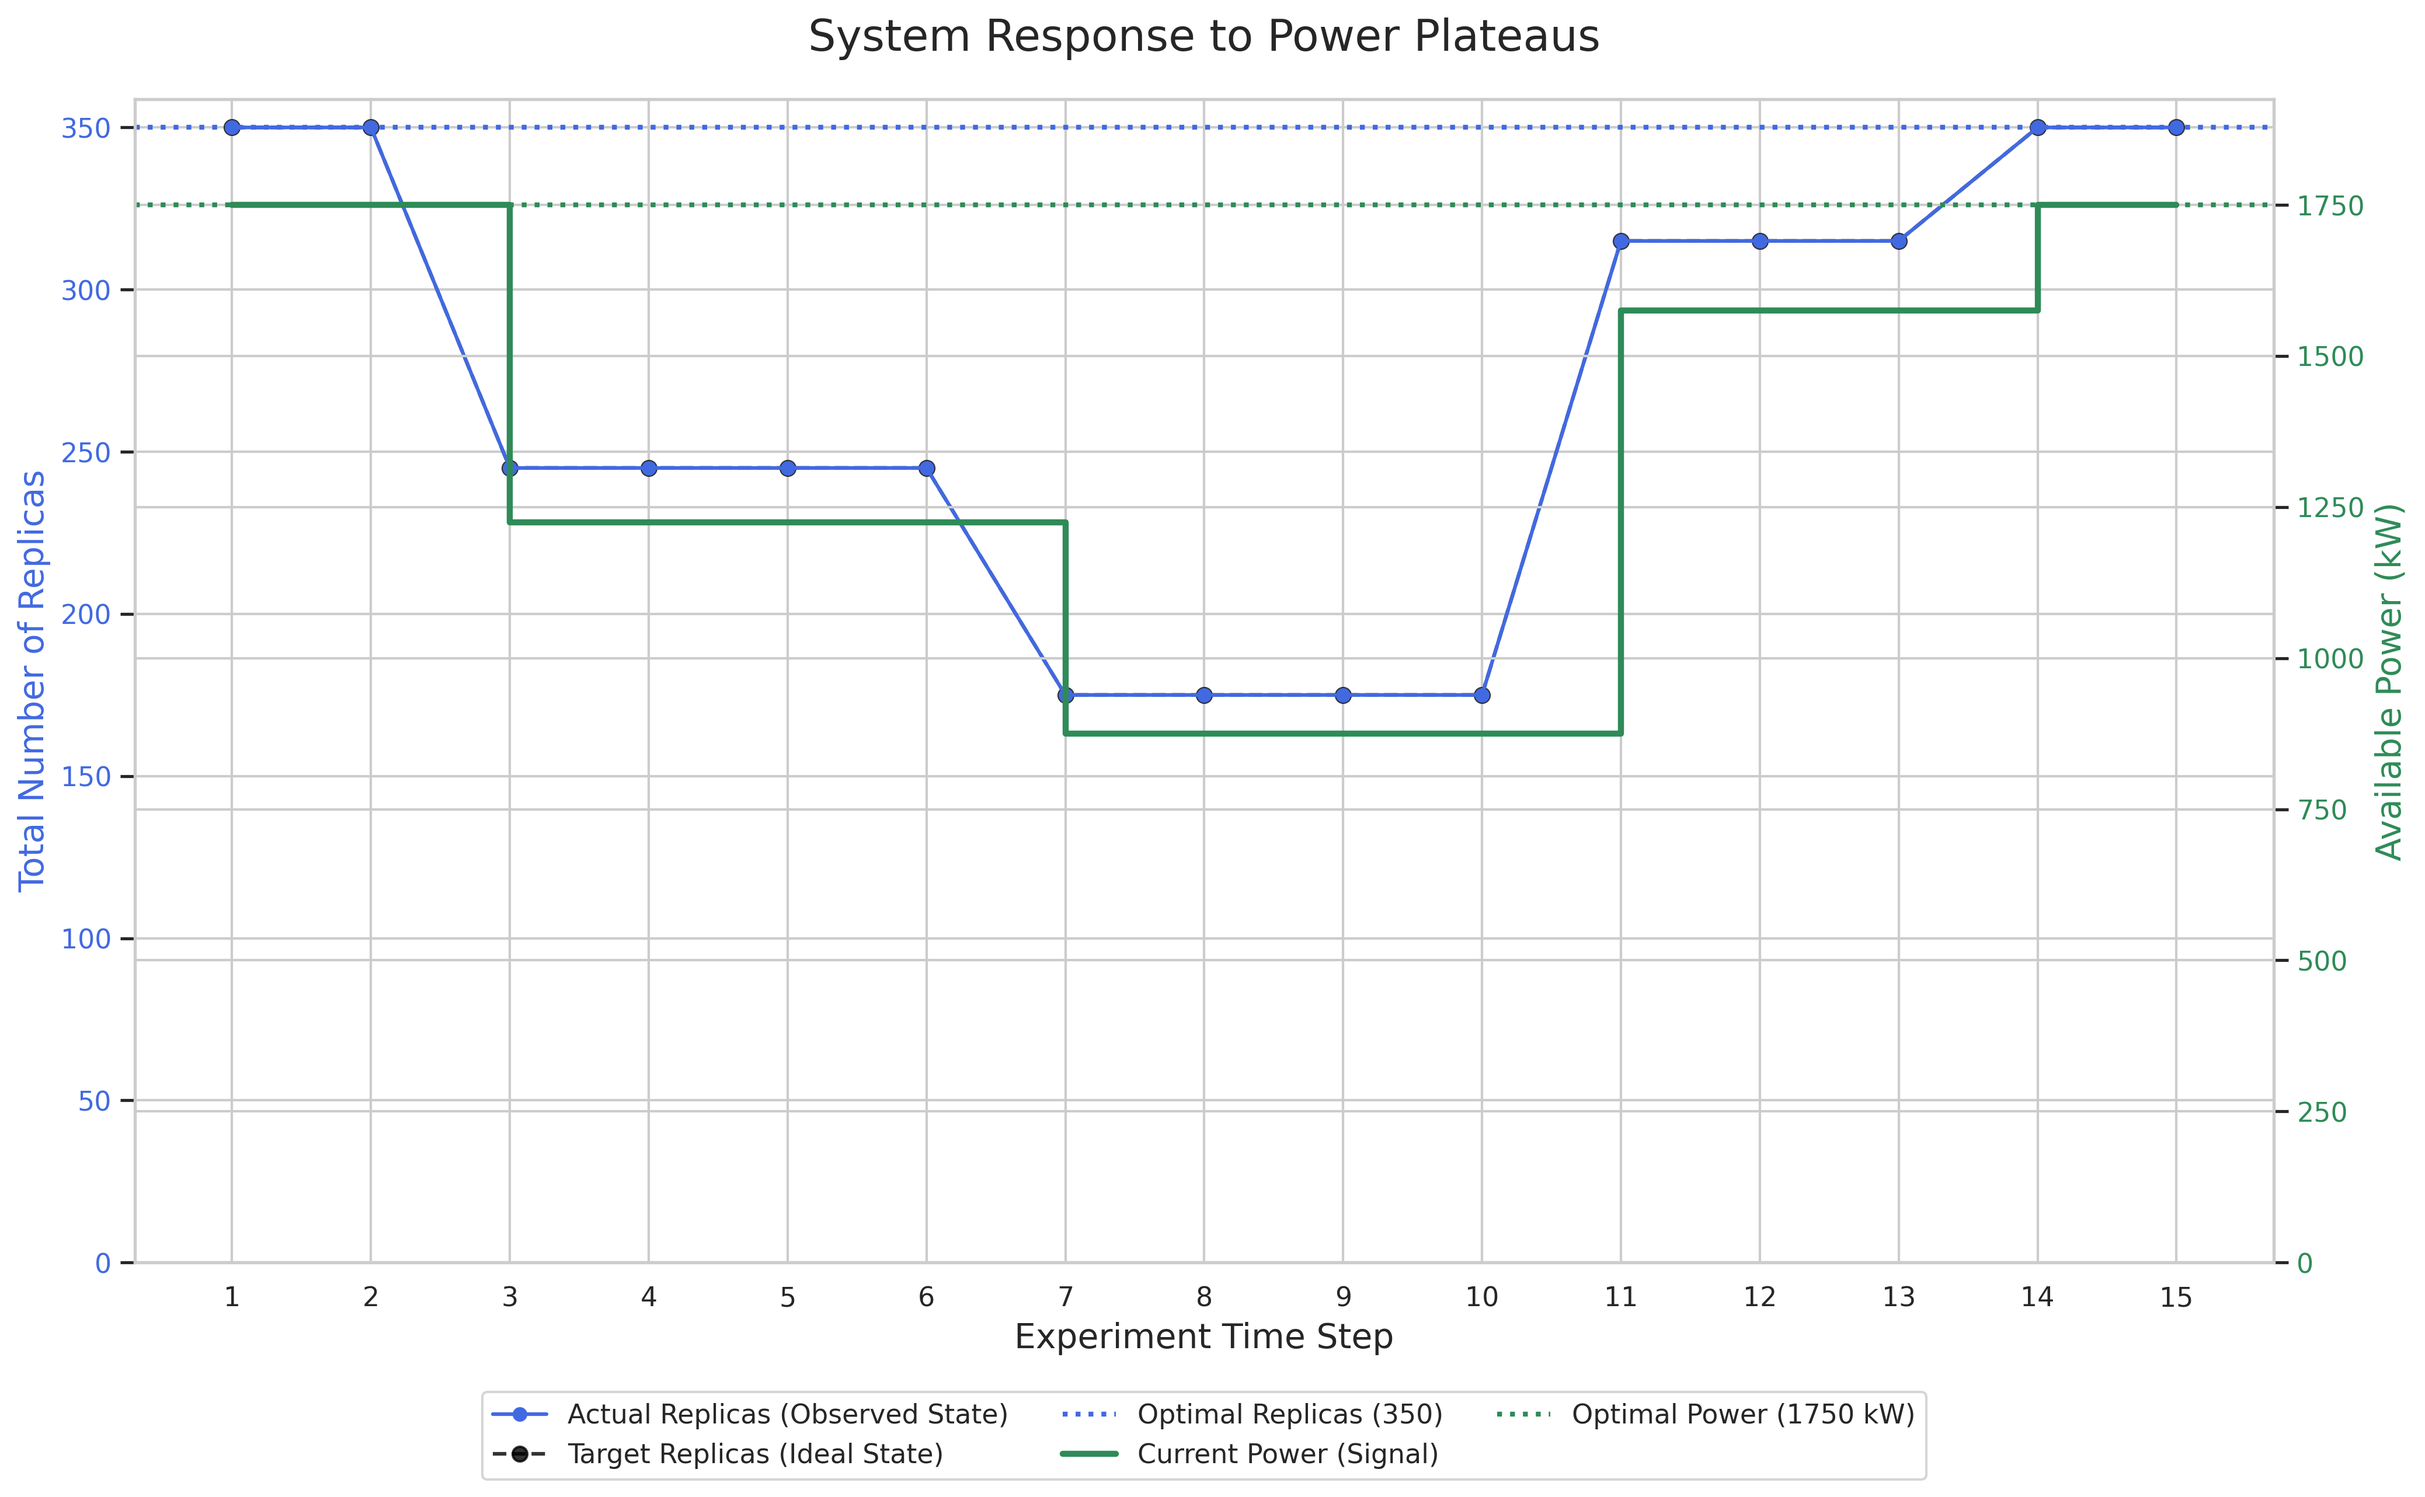
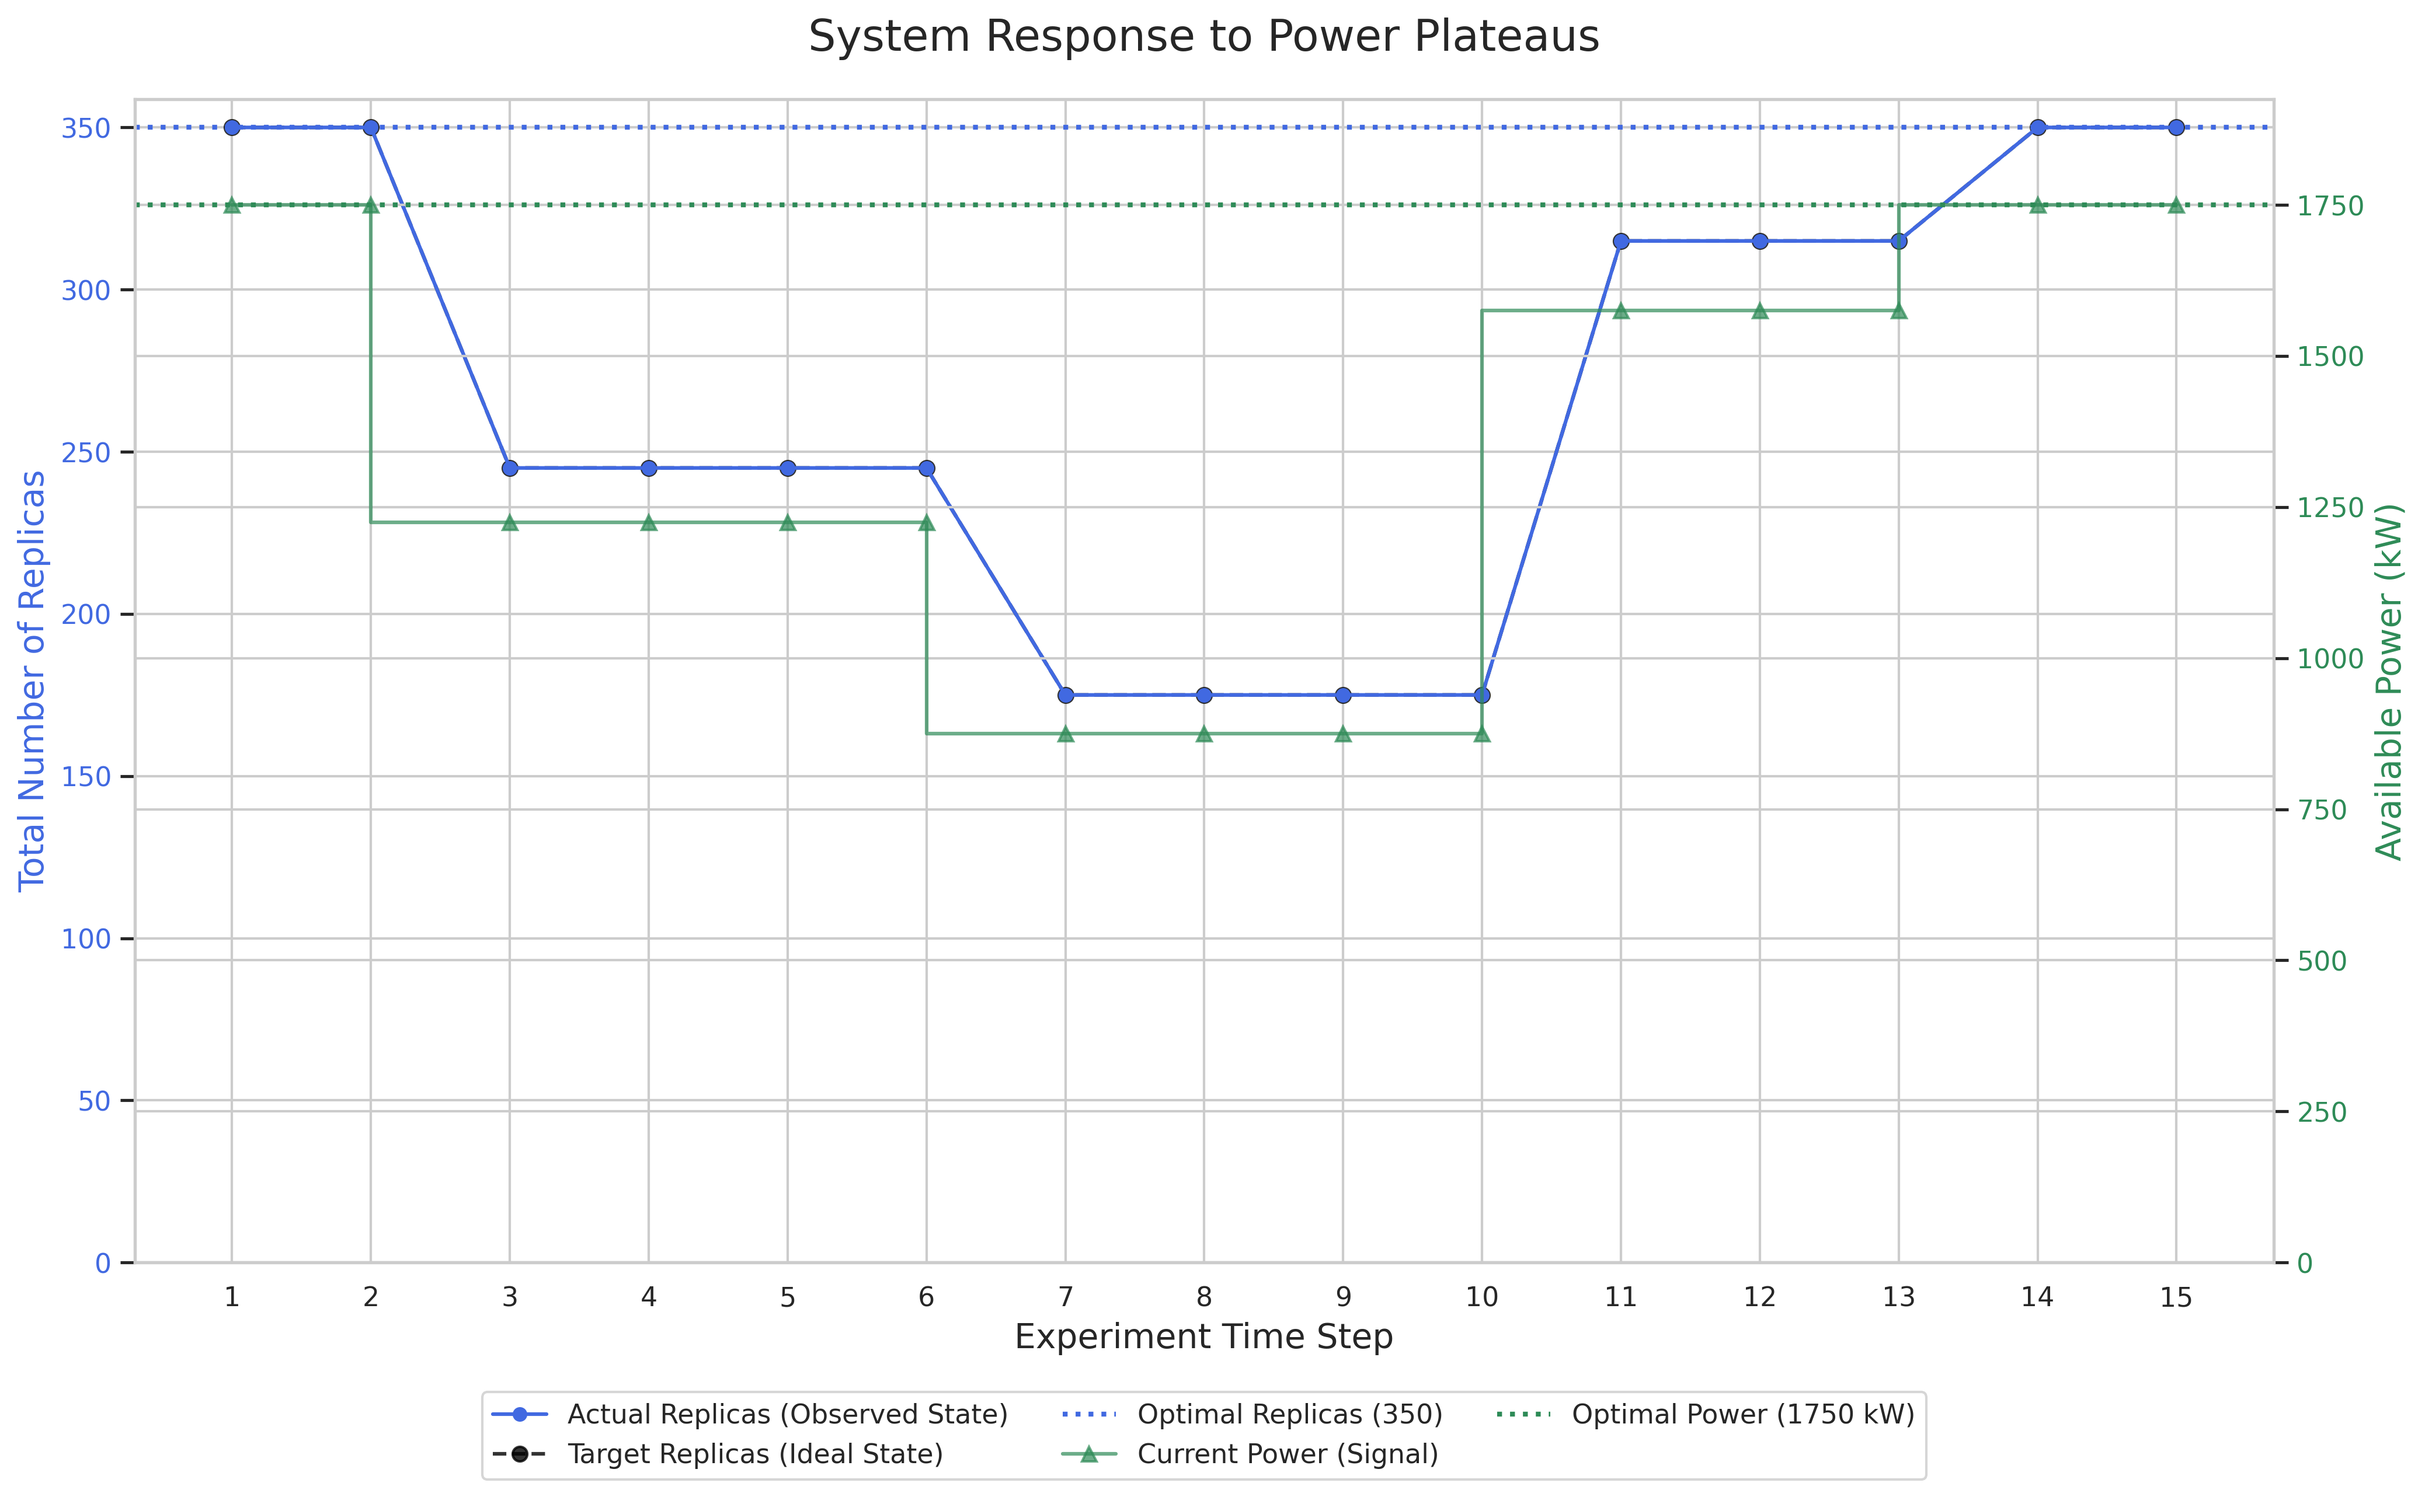
feat: Add full-cycle ramp test and associated data collection for ElaraPolicy controller

diff --git a/controllers/elarapolicy_full_ramp_test.go b/controllers/elarapolicy_full_ramp_test.go
@@ -1,0 +1,153 @@
+package controllers
+
+import (
+	"context"
+	"fmt"
+	"strconv"
+	"time"
+
+	. "github.com/onsi/ginkgo/v2"
+	. "github.com/onsi/gomega"
+	appsv1 "k8s.io/api/apps/v1"
+	corev1 "k8s.io/api/core/v1"
+	metav1 "k8s.io/apimachinery/pkg/apis/meta/v1"
+	"sigs.k8s.io/controller-runtime/pkg/client"
+
+	greenopsv1 "elara/api/v1" // IMPORTANT: Use your module name
+)
+
+// *** CONSTANTS MOVED HERE to be accessible by all functions in this file ***
+const (
+	StepDelay        = 4 * time.Second   // Time to wait between power changes
+	fullRampTimeout  = 180 * time.Second // This is a long test, so a generous timeout
+	fullRampInterval = 250 * time.Millisecond
+)
+
+var _ = Describe("ElaraPolicy Controller: Full-Cycle Ramp Test", func() {
+
+	// Constants specific to this test suite
+	const (
+		FullRampNamespace = "default"
+		FullRampPolicyName    = "full-ramp-policy"
+		NumRampSteps      = 10 // Number of steps for ramp down and up
+	)
+
+	ctx := context.Background()
+
+	// The robust AfterEach block ensures tests do not hang.
+	AfterEach(func() {
+		By("Cleaning up full-cycle ramp test resources")
+		policy := &greenopsv1.ElaraPolicy{ObjectMeta: metav1.ObjectMeta{Name: FullRampPolicyName}}
+		Expect(client.IgnoreNotFound(k8sClient.Delete(ctx, policy))).Should(Succeed())
+
+		nodeList := &corev1.NodeList{}
+		_ = k8sClient.List(ctx, nodeList, client.MatchingLabels{"elara-test": "full-ramp"})
+		for _, node := range nodeList.Items {
+			_ = k8sClient.Delete(ctx, &node)
+		}
+		
+		Expect(k8sClient.DeleteAllOf(ctx, &appsv1.Deployment{}, client.InNamespace(FullRampNamespace), client.MatchingLabels{"elara-test": "full-ramp"})).Should(Succeed())
+		Eventually(func() int {
+			list := &appsv1.DeploymentList{}
+			_ = k8sClient.List(ctx, list, client.InNamespace(FullRampNamespace), client.MatchingLabels{"elara-test": "full-ramp"})
+			return len(list.Items)
+		}, fullRampTimeout, fullRampInterval).Should(BeZero())
+	})
+
+	It("should track a full ramp-down and ramp-up power cycle", func() {
+		// --- SETUP ---
+		By("Creating a complex, heterogeneous cluster topology")
+		managedDeployments := generateComplexTopology(FullRampNamespace, 30)
+		for _, md := range managedDeployments {
+			dep := createMockDeployment(md.Namespace, md.Name, md.MaxReplicas)
+			dep.Labels = map[string]string{"elara-test": "full-ramp"}
+			Expect(k8sClient.Create(ctx, dep)).Should(Succeed())
+		}
+		
+		nodes := []*corev1.Node{
+			{ObjectMeta: metav1.ObjectMeta{Name: "ramp-node-1", Labels: map[string]string{"elara-test": "full-ramp", optimalPowerLabel: "1000", currentPowerLabel: "1000"}}},
+			{ObjectMeta: metav1.ObjectMeta{Name: "ramp-node-2", Labels: map[string]string{"elara-test": "full-ramp", optimalPowerLabel: "500", currentPowerLabel: "500"}}},
+			{ObjectMeta: metav1.ObjectMeta{Name: "ramp-node-3", Labels: map[string]string{"elara-test": "full-ramp", optimalPowerLabel: "250", currentPowerLabel: "250"}}},
+		}
+		var optimalPower float64
+		for _, node := range nodes {
+			Expect(k8sClient.Create(ctx, node)).Should(Succeed())
+			opt, _ := strconv.ParseFloat(node.Labels[optimalPowerLabel], 64)
+			optimalPower += opt
+		}
+		
+		policy := &greenopsv1.ElaraPolicy{
+			ObjectMeta: metav1.ObjectMeta{Name: FullRampPolicyName},
+			Spec:       greenopsv1.ElaraPolicySpec{Deployments: managedDeployments},
+		}
+		Expect(k8sClient.Create(ctx, policy)).Should(Succeed())
+
+		By("Ensuring initial state is stable at max replicas")
+		expectedInitialReplicas := make(map[string]int32)
+		for _, md := range managedDeployments { expectedInitialReplicas[md.Name] = md.MaxReplicas }
+		assertAllDeploymentsConverged(ctx, FullRampNamespace, expectedInitialReplicas)
+
+		// --- POWER CYCLE & DATA COLLECTION ---
+		By("Executing a full ramp-down and ramp-up power cycle")
+		var collectedData []RampDataPoint
+		scaler := &DeclarativeScaler{Deployments: managedDeployments}
+		minPowerFactor := 0.4
+
+		// PHASE 1: RAMP DOWN
+		for i := 0; i <= NumRampSteps; i++ {
+			powerFactor := 1.0 - ((1.0 - minPowerFactor) * (float64(i) / float64(NumRampSteps)))
+			updatePowerAndCollectData(ctx, powerFactor, optimalPower, &collectedData, scaler, FullRampNamespace)
+		}
+
+		// PHASE 2: RAMP UP
+		for i := 1; i <= NumRampSteps; i++ {
+			powerFactor := minPowerFactor + ((1.0 - minPowerFactor) * (float64(i) / float64(NumRampSteps)))
+			updatePowerAndCollectData(ctx, powerFactor, optimalPower, &collectedData, scaler, FullRampNamespace)
+		}
+
+		// --- FINAL VALIDATION & REPORTING ---
+		By("Asserting final state has returned to max replicas")
+		assertAllDeploymentsConverged(ctx, FullRampNamespace, expectedInitialReplicas)
+
+		By("Reporting and saving collected metrics for the full cycle")
+		header := []string{"Step", "OptimalPower", "CurrentPower", "TargetReplicas", "ActualReplicas", "ReplicationError"}
+		records := [][]string{}
+		for i, data := range collectedData {
+			record := []string{strconv.Itoa(i + 1), fmt.Sprintf("%.2f", data.OptimalPower), fmt.Sprintf("%.2f", data.CurrentPower), strconv.Itoa(int(data.TargetReplicas)), strconv.Itoa(int(data.ActualReplicas)), strconv.Itoa(int(data.Error))}
+			records = append(records, record)
+		}
+		Expect(saveDataToCSV("full_ramp_data.csv", append([][]string{header}, records...))).To(Succeed())
+		
+		// Print a summary to the console.
+		var totalError int64
+		for _, data := range collectedData { totalError += int64(data.Error) }
+		avgError := float64(totalError) / float64(len(collectedData))
+		fmt.Printf("\n--- METRICS: FULL RAMP TEST SUMMARY ---\n")
+		fmt.Printf("Average Replication Error: %.2f\n", avgError)
+		fmt.Printf("--------------------------------------\n")
+		Expect(avgError).To(BeNumerically("<", 10))
+	})
+})
+
+// updatePowerAndCollectData is a helper function to avoid code duplication for ramp steps.
+func updatePowerAndCollectData(ctx context.Context, powerFactor, optimalPower float64, data *[]RampDataPoint, scaler *DeclarativeScaler, namespace string) {
+	currentPower := optimalPower * powerFactor
+	
+	By(fmt.Sprintf("Setting power to %.2f (%.0f%%)", currentPower, powerFactor*100))
+	
+	nodeList := &corev1.NodeList{}
+	Expect(k8sClient.List(ctx, nodeList, client.MatchingLabels{"elara-test": "full-ramp"})).Should(Succeed())
+	for _, node := range nodeList.Items {
+		// This creates a copy of the node object to modify
+		nodeToUpdate := node
+		opt, _ := strconv.ParseFloat(nodeToUpdate.Labels[optimalPowerLabel], 64)
+		nodeToUpdate.Labels[currentPowerLabel] = fmt.Sprintf("%.2f", opt*powerFactor)
+		Expect(k8sClient.Update(ctx, &nodeToUpdate)).Should(Succeed())
+	}
+	
+	// This uses the package-level constant, which is now visible.
+	time.Sleep(StepDelay)
+	
+	dataPoint := collectDataPoint(ctx, scaler, namespace, currentPower, optimalPower)
+	*data = append(*data, dataPoint)
+}

diff --git a/analysis/plot_results.py b/analysis/plot_results.py
@@ -141,7 +141,7 @@ def plot_plateau_response(filename):
     color_power = 'seagreen'
     ax2.set_ylabel('Available Power (kW)', color=color_power, fontsize=14)
     # Use plt.step for a plateau visualization
-    ax2.step(df['Step'], df['CurrentPower'], where='post', color=color_power, linewidth=2.5, label='Current Power (Signal)')
+    ax2.step(df['Step'], df['CurrentPower'], '^-', color=color_power, alpha=0.7, label='Current Power (Signal)')
     ax2.tick_params(axis='y', labelcolor=color_power)
     ax2.axhline(optimal_power, color=color_power, linestyle=':', linewidth=2, label=f'Optimal Power ({int(optimal_power)} kW)')
     ax2.set_ylim(bottom=0, top=optimal_power * 1.1)
@@ -182,8 +182,11 @@ def main():
         if "ramp_error_data.csv" in filename:
             found_files = True
             plot_replication_error_with_power(full_path)
-        if "plateau_error_data.csv" in filename:
+        elif "plateau_error_data.csv" in filename:
             plot_plateau_response(full_path)
+            found_files = True
+        if "full_ramp_data.csv" in filename:
+            plot_replication_error_with_power(full_path)
             found_files = True
         elif "ramp_convergence_data.csv" in filename:
             found_files = True
